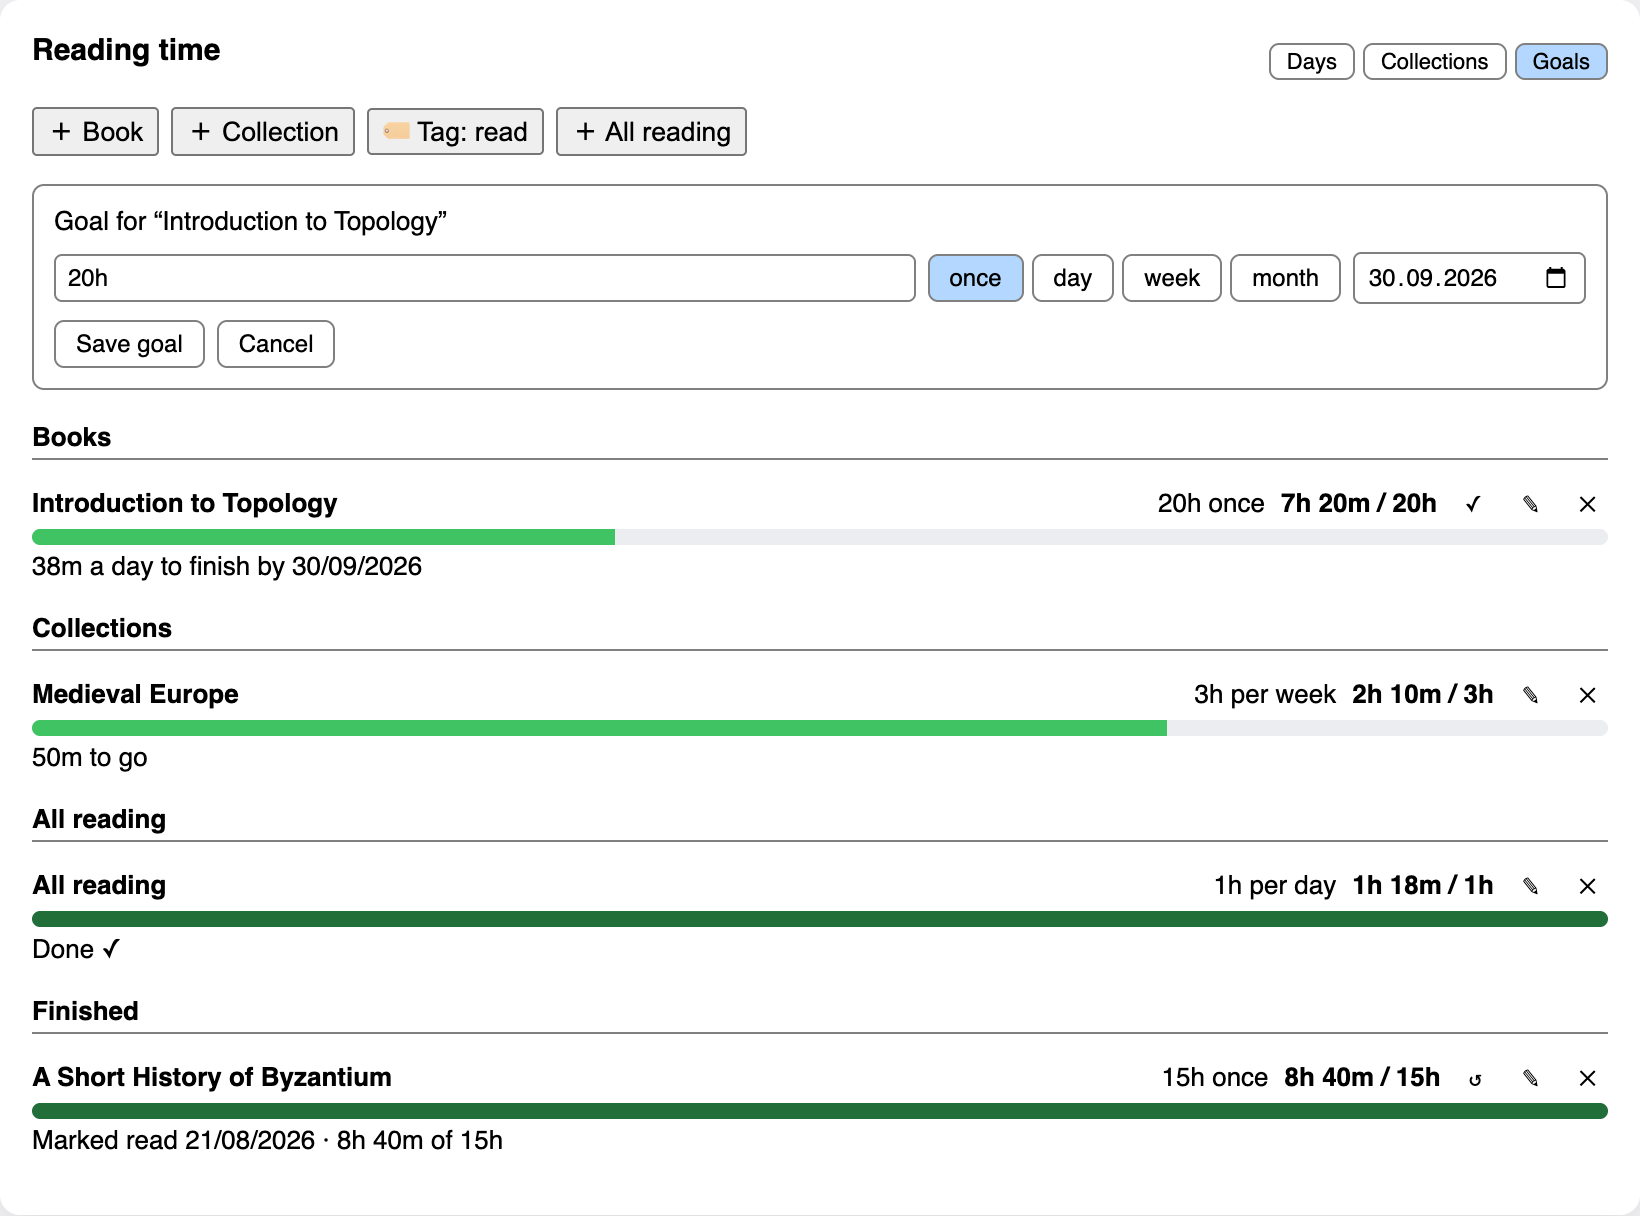
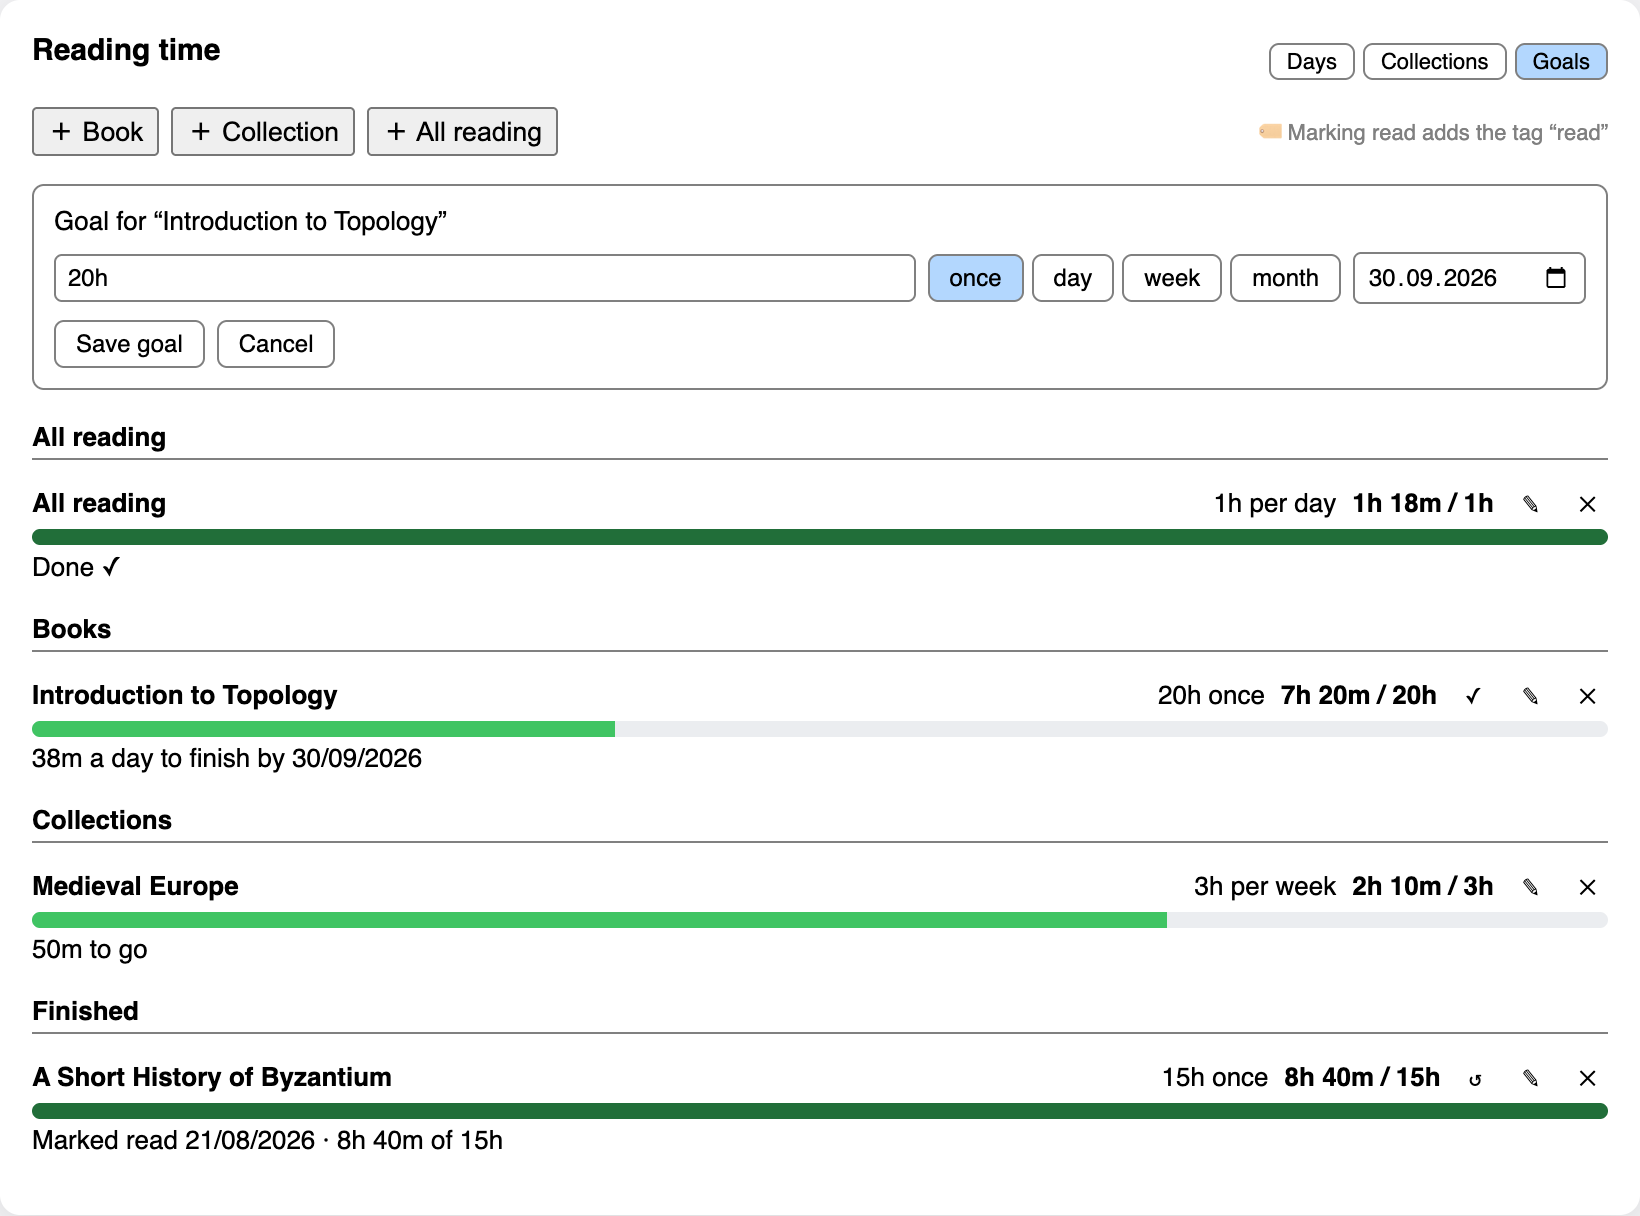
Move the read-tag setting out of the add-goal buttons
It sat in the row of ＋ Book / ＋ Collection / ＋ All reading, which made a
setting look like a fourth way to add a goal. It is now an aside on the right
of that row, in the quiet type used for asides elsewhere in the window, and it
says what it does rather than naming a control: "Marking read adds the tag
'read'". Clicking it changes the setting.

The screenshot also had the pile order from before All reading was moved to the
top; regenerated.

diff --git a/bootstrap.js b/bootstrap.js
@@ -1331,6 +1331,8 @@ h1 { font-size:15px; margin:0 0 12px; }
 .top button.on { background:Highlight; color:HighlightText; }
 .goal { margin:14px 0; }
 .picker { max-height:260px; overflow-y:auto; margin:8px 0; }
+.setting { margin-left:auto; align-self:center; font-size:11px; color:GrayText; cursor:pointer; }
+.setting:hover { text-decoration:underline; color:CanvasText; }
 .goal-head .link { cursor:pointer; }
 .goal-head .link:hover { text-decoration:underline; }
 .goal-head { display:flex; align-items:baseline; gap:8px; }
@@ -1809,15 +1811,19 @@ function buildGoals(doc, win) {
 	};
 	adder("＋ Book", () => { goalPick = "item"; goalDraft = null; buildHistory(win); });
 	adder("＋ Collection", () => { goalPick = "collection"; goalDraft = null; buildHistory(win); });
-	const tag = readTag();
-	adder(tag === undefined ? "🏷 Read tag…" : tag ? `🏷 Tag: ${tag}` : "🏷 No read tag", () => {
-		askReadTag();
-		buildHistory(win);
-	});
 	adder("＋ All reading", () => {
 		goalPick = null;
 		startGoal({ libraryID: Zotero.Libraries.userLibraryID, scope: "all", key: null, title: "All reading" });
 	});
+	// A setting, not a fourth way to add a goal: off to the side, in the quiet
+	// type used for asides elsewhere in this window.
+	const tag = readTag();
+	const setting = el(doc, "span", "setting",
+		tag === undefined ? "🏷 Tag books you mark as read?"
+		: tag ? `🏷 Marking read adds the tag “${tag}”` : "🏷 Marking read adds no tag");
+	setting.title = "Change what marking a book read does";
+	setting.addEventListener("click", () => safe(() => { askReadTag(); buildHistory(win); }));
+	bar.append(setting);
 	doc.body.append(bar);
 
 	if (goalPick) doc.body.append(goalPicker(doc, win));

diff --git a/README.md b/README.md
@@ -83,8 +83,8 @@ starts again on Monday, so there is nothing to finish early.
 
 Marking a book read with **✓** can tag it in Zotero. The first time you do it,
 you're asked what the tag should be — `read` is offered, and leaving it empty
-means no tagging, which is then remembered. The **🏷** button in the Goals tab
-shows the current setting and changes it. Only your click tags anything: a goal
+means no tagging, which is then remembered. The Goals tab says what it does — *Marking read adds
+the tag "read"* — off to the right; click that to change it. Only your click tags anything: a goal
 that reaches its target on its own is never tagged, and **↺** takes the tag off
 again.
 
